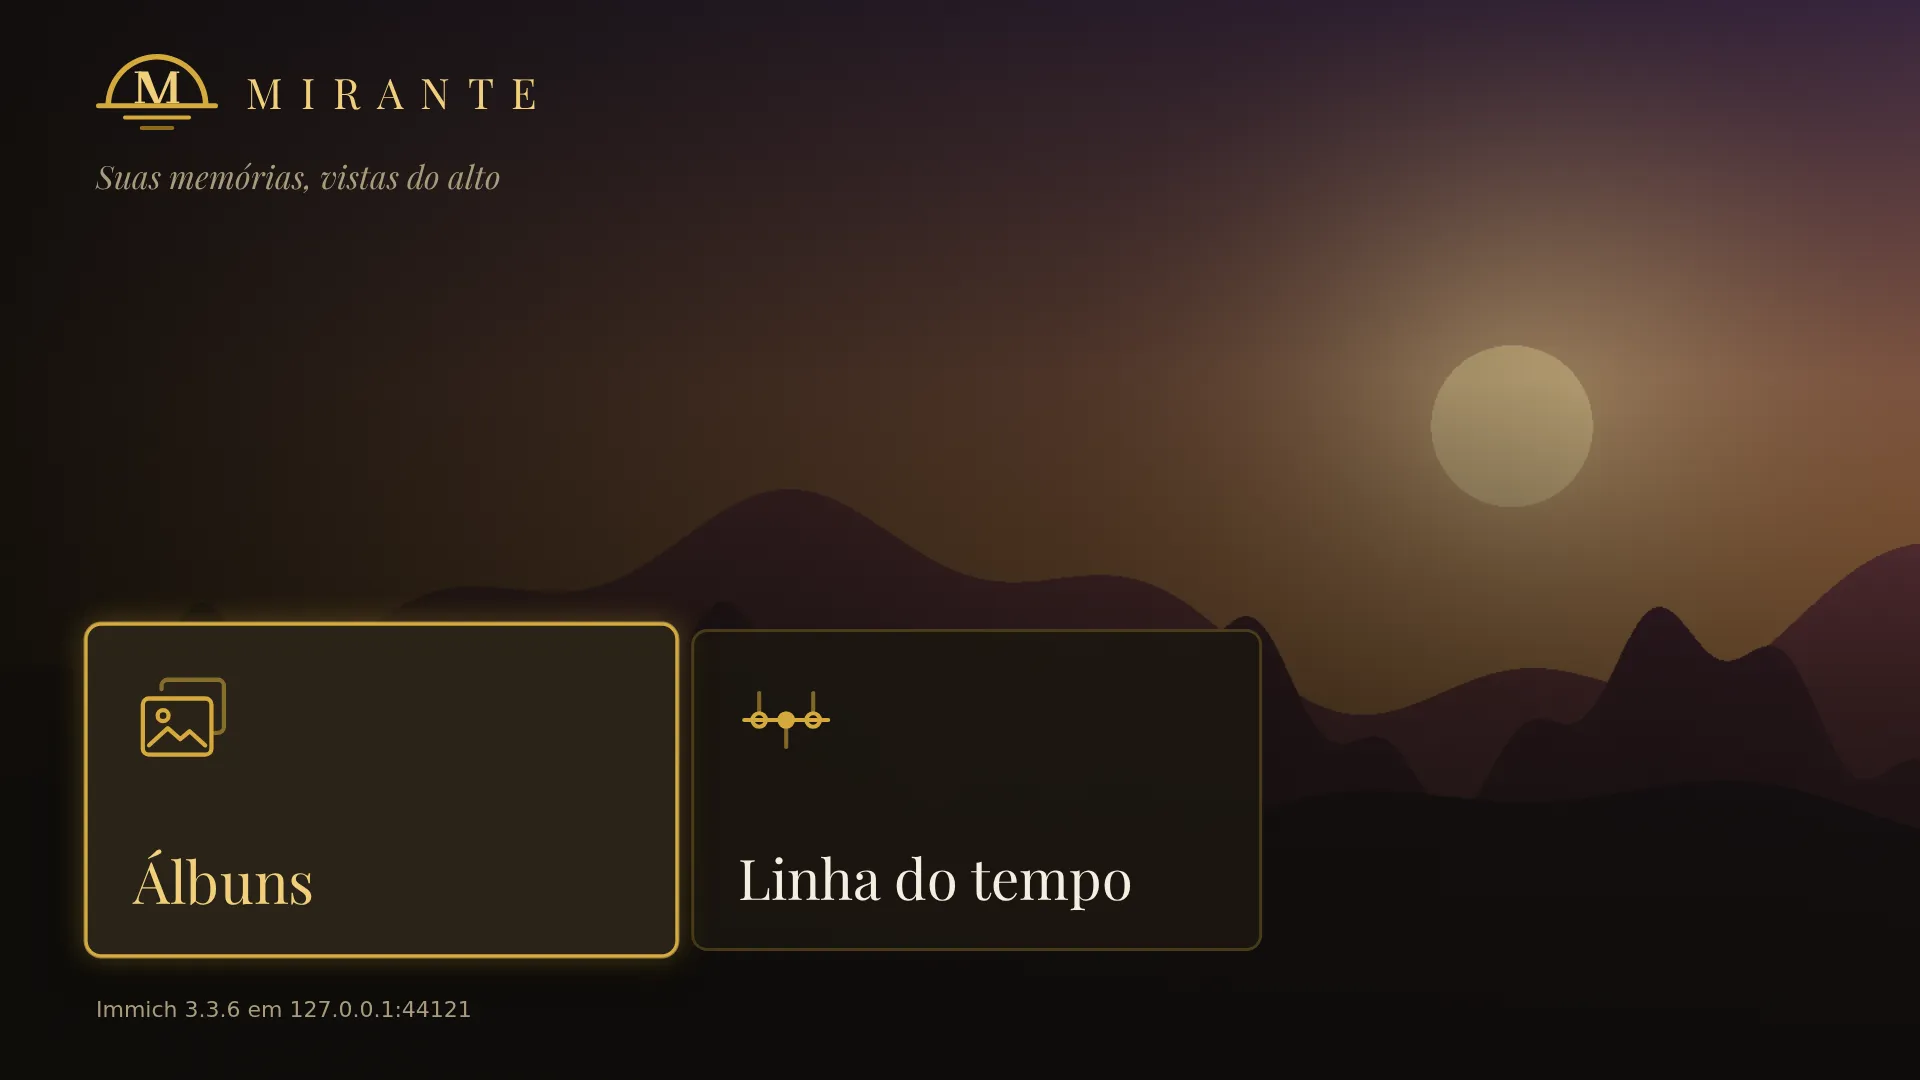
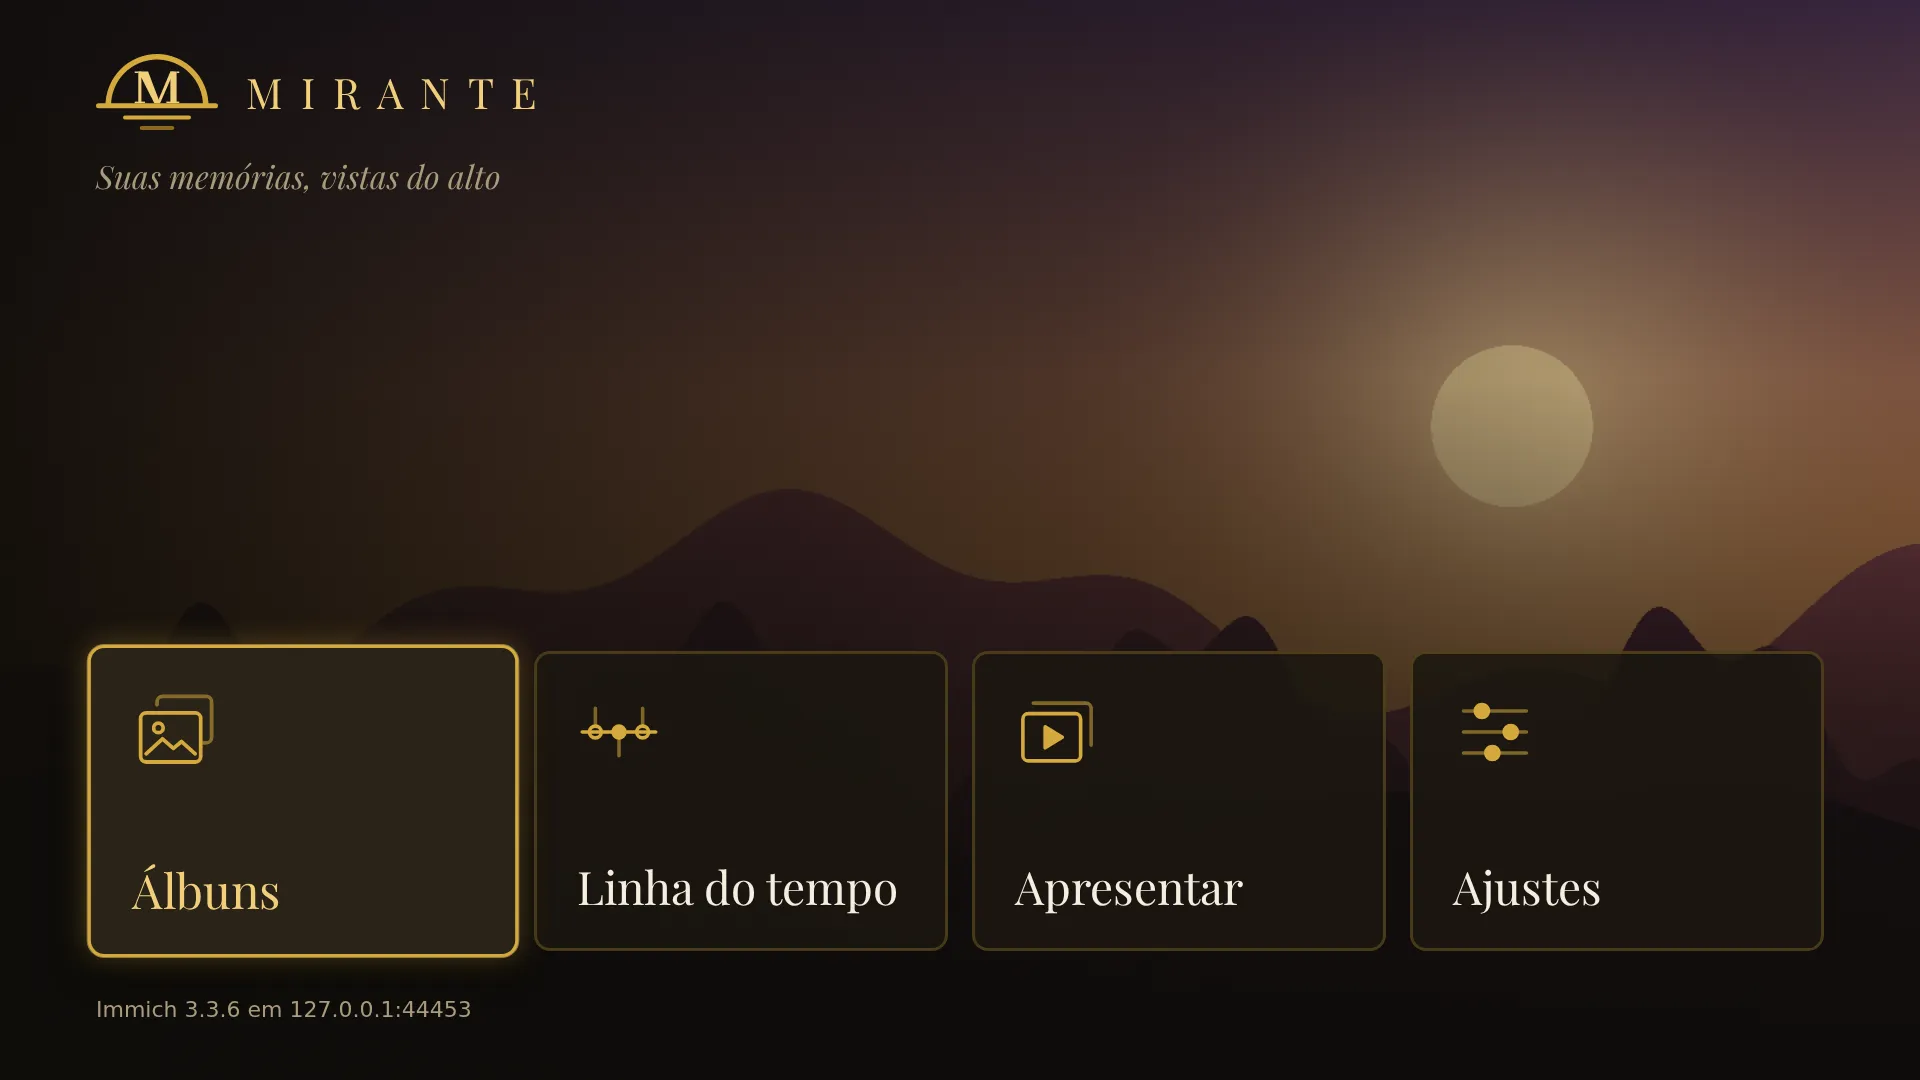
test: present the library in the TV packages and capture the new screens
The fake Immich of the end-to-end tests answers the random draw and the detail
of a photo, and lets Content-Type through its preflight, as the proxy must. Both
packages, the webOS one in the emulated Chromium 68, now present the whole
library from file:// and show the caption of its first photo. make screenshots
captures the choices of a presentation, the settings, the settings over a
photo and the viewer with a caption, with the grid loaded before the arrows.

diff --git a/e2e/fake-immich-server.ts b/e2e/fake-immich-server.ts
@@ -1,23 +1,30 @@
 // A fake Immich behind the owner's proxy, on a real port, for the app that a browser runs from
 // file://: it answers CORS the way that proxy does (any origin, a 204 to the preflight, GET, HEAD,
-// POST and OPTIONS), adds the key itself (it never asks for one) and records every request. It
-// serves a library (by default, one album of two photos, in one month) and the images an option
-// draws (by default, a small gray square).
+// POST and OPTIONS, and the Content-Type header of the random draw), adds the key itself (it never
+// asks for one) and records every request. It serves a library (by default, one album of two
+// photos, in one month), its random draws and captions, and the images an option draws (by
+// default, a small gray square).
 import { createServer, type IncomingMessage, type Server, type ServerResponse } from 'node:http'
 import type { AddressInfo } from 'node:net'
 
 import { encodePng } from '../scripts/packaging/png.ts'
 import {
   albumsOf,
+  assetOf,
   assetsAsked,
   bucketOf,
   bucketsOf,
   type FakeLibrary,
+  randomOf,
 } from '../test/immich-answers.ts'
 
 export const ALBUM_NAME = 'Viagem a Lisboa'
+export const CAPTION = 'Bom dia, Lisboa'
 export const PHOTO_IDS = ['photo-1', 'photo-2'] as const
 const ALLOWED_METHODS = 'GET, HEAD, POST, OPTIONS'
+const ALLOWED_HEADERS = 'Content-Type'
+// What the app draws for each round of the whole library.
+const DRAW_SIZE = 200
 const VERSION = { major: 3, minor: 3, patch: 6, prerelease: null }
 // A small opaque image the browser decodes, so that a loaded <img> has a width.
 const IMAGE = encodePng({ width: 4, height: 4, pixels: new Uint8Array(64).fill(200) })
@@ -31,6 +38,7 @@ const TRIP_LIBRARY: FakeLibrary = {
       offsetHours: 0,
       isImage: true,
       albumIds: ['album-trip'],
+      description: CAPTION,
     },
     {
       id: PHOTO_IDS[1],
@@ -50,7 +58,10 @@ const JSON_ANSWERS: ReadonlyMap<string, JsonAnswer> = new Map<string, JsonAnswer
   ['GET /api/albums', (library) => albumsOf(library)],
   ['GET /api/timeline/buckets', (library, location) => bucketsOf(assetsAsked(library, location))],
   ['GET /api/timeline/bucket', (library, location) => bucketOf(library, location)],
+  ['POST /api/search/random', (library) => randomOf(library, DRAW_SIZE)],
 ])
+
+const ASSET = /^\/api\/assets\/([^/]+)$/
 
 const THUMBNAIL = /^\/api\/assets\/([^/]+)\/thumbnail$/
 const IMAGE_SIZES: ReadonlySet<string> = new Set(['thumbnail', 'preview'])
@@ -141,17 +152,32 @@ function answer({ request, response, options, isCorsAllowed }: Exchange): void {
     response.setHeader('Access-Control-Allow-Origin', '*')
   }
   if (request.method === 'OPTIONS') {
-    response.writeHead(204, { 'Access-Control-Allow-Methods': ALLOWED_METHODS }).end()
+    response
+      .writeHead(204, {
+        'Access-Control-Allow-Methods': ALLOWED_METHODS,
+        'Access-Control-Allow-Headers': ALLOWED_HEADERS,
+      })
+      .end()
     return
   }
   const call = recorded(request)
   const location = new URL(call.url, 'http://immich.test')
-  const body = JSON_ANSWERS.get(callOf(call))?.(options.library, location)
+  const body = jsonAnswer(call, location, options.library)
   if (body !== undefined) {
     response.writeHead(200, { 'Content-Type': 'application/json' }).end(JSON.stringify(body))
     return
   }
   answerImage(location, response, options)
+}
+
+function jsonAnswer(call: RecordedRequest, location: URL, library: FakeLibrary): unknown {
+  return JSON_ANSWERS.get(callOf(call))?.(library, location) ?? assetAnswer(library, location)
+}
+
+// The detail of a photo, with its caption.
+function assetAnswer(library: FakeLibrary, location: URL): unknown {
+  const id = ASSET.exec(location.pathname)?.[1]
+  return id === undefined ? undefined : assetOf(library, decodeURIComponent(id))
 }
 
 // Only the sizes a TV asks for: never the original.

diff --git a/e2e/screenshots.test.ts b/e2e/screenshots.test.ts
@@ -154,6 +154,7 @@ describe('the screenshots of the docs', () => {
 
     await press(page, 'Enter')
     await page.getByRole('heading', { level: 1, name: 'Viagem a Lisboa' }).waitFor()
+    await page.locator('.grid-photos').waitFor()
     await press(page, 'ArrowRight', 'ArrowRight', 'ArrowDown')
     await settled(page)
     await shoot(page, '04-album')
@@ -161,14 +162,52 @@ describe('the screenshots of the docs', () => {
     await press(page, 'Enter')
     await page.getByRole('dialog').waitFor()
     await settled(page)
-    // The next photo is loaded ahead: it shows at once, with its date and counter.
+    // The next photo is loaded ahead: it shows at once, with its date, its counter and its caption.
     await press(page, 'ArrowRight')
+    await page.getByText('Fim de tarde no Miradouro de Santa Luzia').waitFor()
     await settled(page)
     await shoot(page, '05-foto')
 
     await press(page, 'Enter')
     await progressed(page, SLIDESHOW_SHARE)
     await shoot(page, '06-apresentacao')
+    await page.close()
+  })
+
+  it('should capture the choices of a presentation and its settings', async () => {
+    const page = await open()
+    await focusedOn(page, 'Álbuns')
+    await page.locator('.backdrop.is-shown').waitFor()
+
+    await press(page, 'ArrowRight', 'ArrowRight', 'Enter')
+    await focusedOn(page, 'Toda a biblioteca')
+    await settled(page)
+    await shoot(page, '12-apresentar')
+
+    await press(page, BACK, 'ArrowRight', 'Enter')
+    await focusedOn(page, 'Tempo de cada foto')
+    await press(page, 'ArrowDown', 'ArrowDown', 'ArrowRight', 'ArrowRight')
+    await focusedOn(page, 'Zoom lento')
+    await settled(page)
+    await shoot(page, '13-ajustes')
+    await page.close()
+  })
+
+  it('should capture the settings over a photo', async () => {
+    const page = await open()
+    await focusedOn(page, 'Álbuns')
+    await press(page, 'Enter')
+    await focusedOn(page, 'Viagem a Lisboa')
+    await press(page, 'Enter')
+    await page.getByRole('heading', { level: 1, name: 'Viagem a Lisboa' }).waitFor()
+    await page.locator('.grid-photos').waitFor()
+    await press(page, 'ArrowRight', 'ArrowRight', 'ArrowDown', 'ArrowRight', 'Enter')
+    await page.getByText('Fim de tarde no Miradouro de Santa Luzia').waitFor()
+
+    await press(page, 'i')
+    await focusedOn(page, 'Tempo de cada foto')
+    await settled(page)
+    await shoot(page, '14-ajustes-na-foto')
     await page.close()
   })
 

diff --git a/e2e/packaged-app.ts b/e2e/packaged-app.ts
@@ -5,7 +5,7 @@
 import { type Browser, chromium, type Page } from 'playwright'
 import { expect } from 'vitest'
 
-import { ALBUM_NAME, type FakeImmich, PHOTO_IDS } from './fake-immich-server.ts'
+import { ALBUM_NAME, CAPTION, type FakeImmich, PHOTO_IDS } from './fake-immich-server.ts'
 import { emulateChromium68 } from './legacy-chromium.ts'
 
 // The TV whose system the page gets: webOS's PalmSystem or Tizen's tizen global.
@@ -114,6 +114,24 @@ function expectCrossOriginCalls(immich: FakeImmich): void {
   expect(immich.requests.map((request) => request.url)).toContain(
     `/api/assets/${PHOTO_IDS[0]}/thumbnail?size=preview`,
   )
+}
+
+// The whole library, drawn at random by Immich (a POST with a JSON body, so after a preflight that
+// lets Content-Type through), playing at once with the caption of its first photo.
+export async function expectLibraryPresentation(app: OpenedApp, immich: FakeImmich): Promise<void> {
+  const { page } = app
+  await expect.poll(async () => focusedText(page)).toBe('Álbuns')
+  await page.keyboard.press('ArrowRight')
+  await page.keyboard.press('ArrowRight')
+  await page.keyboard.press('Enter')
+  await expect.poll(async () => focusedText(page)).toContain('Toda a biblioteca')
+  await page.keyboard.press('Enter')
+  await page.getByRole('dialog', { name: `1 de ${String(PHOTO_IDS.length)}` }).waitFor()
+  await page.getByText(CAPTION).waitFor()
+  const calls = immich.requests.map((request) => `${request.method} ${request.url}`)
+  expect(calls).toContain('OPTIONS /api/search/random')
+  expect(calls).toContain('POST /api/search/random')
+  expect(calls).toContain(`GET /api/assets/${PHOTO_IDS[0]}`)
 }
 
 // Back returns one screen, then asks the TV to leave from the start screen, once.

diff --git a/e2e/screenshot-library.ts b/e2e/screenshot-library.ts
@@ -1,6 +1,6 @@
 // The library of the screenshots of the docs: albums of trips and family moments over three years,
 // one of them empty, and a few loose photos in the timeline, each photo a landscape drawn from its
-// id (scenes.ts) in the size asked for.
+// id (scenes.ts) in the size asked for; a few photos of the trip to Lisbon have a caption.
 import type { FakeAsset, FakeLibrary } from '../test/immich-answers.ts'
 import { scenePng } from './scenes.ts'
 
@@ -42,6 +42,13 @@ const LOOSE_DAYS: readonly string[] = [
 
 export const EMPTY_ALBUM = 'Mudança de casa'
 
+// The captions written in Immich for a few photos of the trip to Lisbon.
+const CAPTIONS: ReadonlyMap<string, string> = new Map([
+  ['lisboa-9', 'O bonde 28 subindo para a Alfama'],
+  ['lisboa-10', 'Fim de tarde no Miradouro de Santa Luzia'],
+  ['lisboa-11', 'Pastéis de nata ainda quentes em Belém'],
+])
+
 export const SCREENSHOT_LIBRARY: FakeLibrary = {
   albums: ALBUMS.map(({ id, name }) => ({ id, name, isOldestFirst: true })),
   assets: [
@@ -72,12 +79,14 @@ export function screenshotImage(photoId: string, size: string): Uint8Array {
 }
 
 function photo(id: string, takenAtMs: number, albumIds: readonly string[]): FakeAsset {
+  const description = CAPTIONS.get(id)
   return {
     id,
     takenAt: new Date(takenAtMs).toISOString(),
     offsetHours: -3,
     isImage: true,
     albumIds,
+    ...(description === undefined ? {} : { description }),
   }
 }
 

diff --git a/e2e/webos-package.test.ts b/e2e/webos-package.test.ts
@@ -25,6 +25,7 @@ import { emulateChromium68, MISSING_APIS, MODULE_REFUSED, nativeApis } from './l
 import {
   expectBackToLeave,
   expectBrowsingAcrossOrigins,
+  expectLibraryPresentation,
   expectReportedUnreachable,
   launchBrowser,
   openApp,
@@ -161,6 +162,14 @@ describe('the webOS package', () => {
     const app = await open()
 
     await expectBrowsingAcrossOrigins(app, immich)
+    await app.page.close()
+  })
+
+  it('should present the whole library, drawn at random across origins, with its captions', async () => {
+    immich.requests.length = 0
+    const app = await open()
+
+    await expectLibraryPresentation(app, immich)
     await app.page.close()
   })
 

diff --git a/e2e/tizen-package.test.ts b/e2e/tizen-package.test.ts
@@ -22,6 +22,7 @@ import { type FakeImmich, startFakeImmich } from './fake-immich-server.ts'
 import {
   expectBackToLeave,
   expectBrowsingAcrossOrigins,
+  expectLibraryPresentation,
   expectReportedUnreachable,
   launchBrowser,
   openApp,
@@ -115,6 +116,14 @@ describe('the Tizen package', () => {
     const app = await open()
 
     await expectBrowsingAcrossOrigins(app, immich)
+    await app.page.close()
+  })
+
+  it('should present the whole library, drawn at random across origins, with its captions', async () => {
+    immich.requests.length = 0
+    const app = await open()
+
+    await expectLibraryPresentation(app, immich)
     await app.page.close()
   })
 
